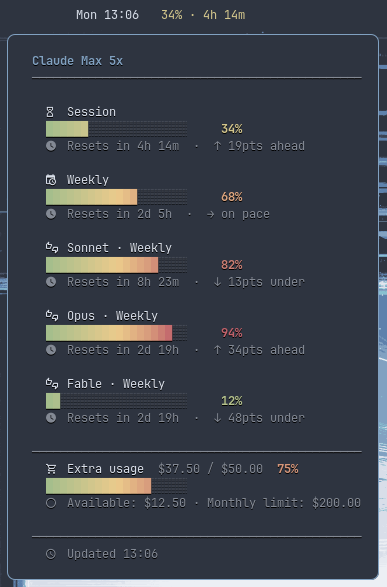
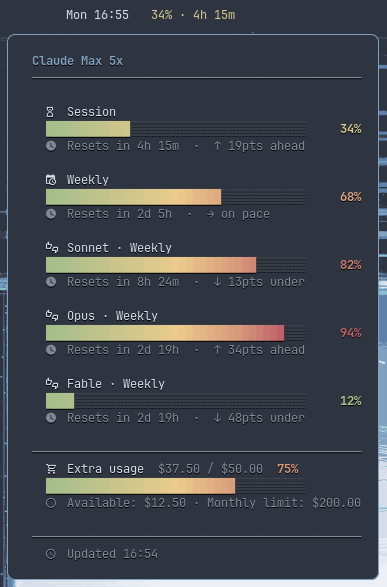
feat: the tooltip meter reaches the right edge
The percentage floated in the middle of the meter block while the line
below it ran ten columns further right. The frame used to give the block
its right edge; when the frame went, the bar stayed pinned at 20 cells
and nothing replaced that edge.

A meter row is now <indent><bar><gap><value>, with the value right-
aligned on the tooltip's right edge and the bar length derived from it.
One bar length for the whole tooltip: the meters stack, so a reader
compares them against each other, and a per-row length would turn that
comparison into a lie.

The bar length depends on the widest TEXT line, which does not exist
while the lines are being collected, so a meter parks a METER:<i>
placeholder plus an entry in the parallel meter_* arrays and the width
pass resolves it. That pass skips the parked rows, or the measurement
would be circular.

BAR_LEN moves for the tooltip only, after the bar text is built.
GRAD_CELLS is indexed by cell position, so it is rebuilt right after -
a longer bar would otherwise read past the end of the array, which is
fatal under set -u.

diff --git a/CLAUDE.md b/CLAUDE.md
@@ -7,6 +7,9 @@
 
 ## Non-Obvious Rules
 
+- **A tooltip meter is PARKED, not rendered in place.** The bar has to reach the tooltip's right edge, and that edge is the widest TEXT line — which does not exist yet while the lines are being collected. So a meter pushes `METER:<i>` into `lines` plus one entry in the parallel `meter_*` arrays, and the width pass resolves it. The width pass MUST skip `METER:` lines, or the measurement is circular. Every meter in one tooltip gets the SAME bar length: they stack, so a reader compares them against each other.
+- `BAR_LEN` is mutated for the tooltip AFTER the bar text is built. `GRAD_CELLS` is indexed by cell position, so it has to be rebuilt (`GRAD_CELLS=(); init_grad_cells`) right after — a longer bar otherwise reads past the end of the array, which is fatal under `set -u`.
+
 - The script must **always exit 0**, even on errors — Waybar hides modules that exit non-zero. Use `die()` for error output.
 - All output must be valid Waybar JSON: `{"text":"...", "tooltip":"...", "class":"..."}`
 - Tooltip uses **Pango markup** for rich formatting (colors, bold, box-drawing borders)
